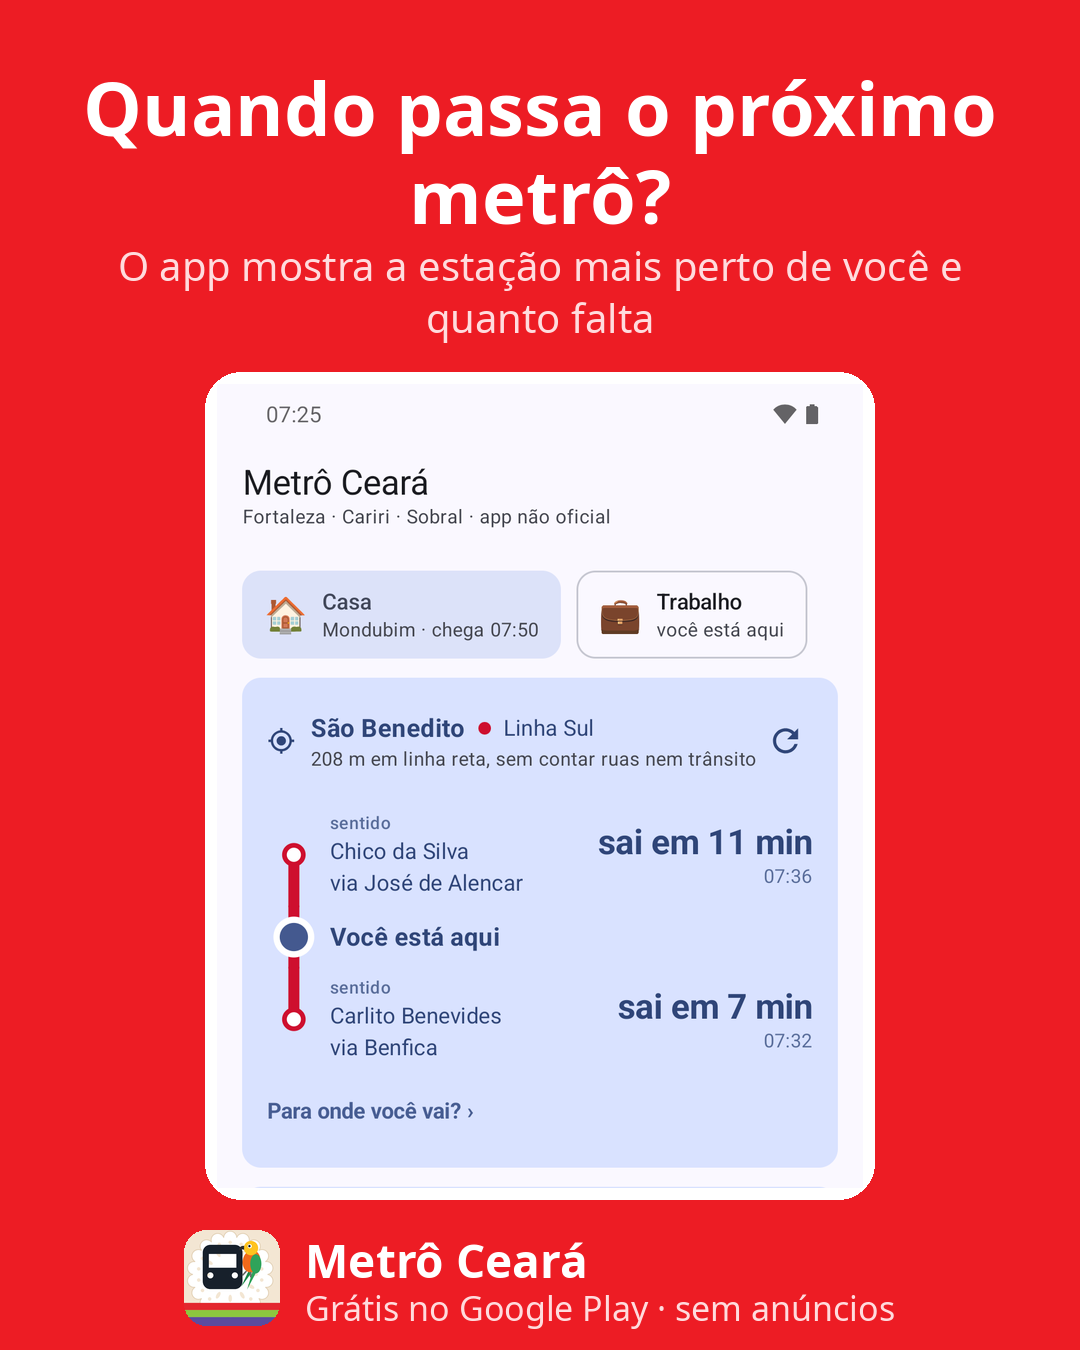
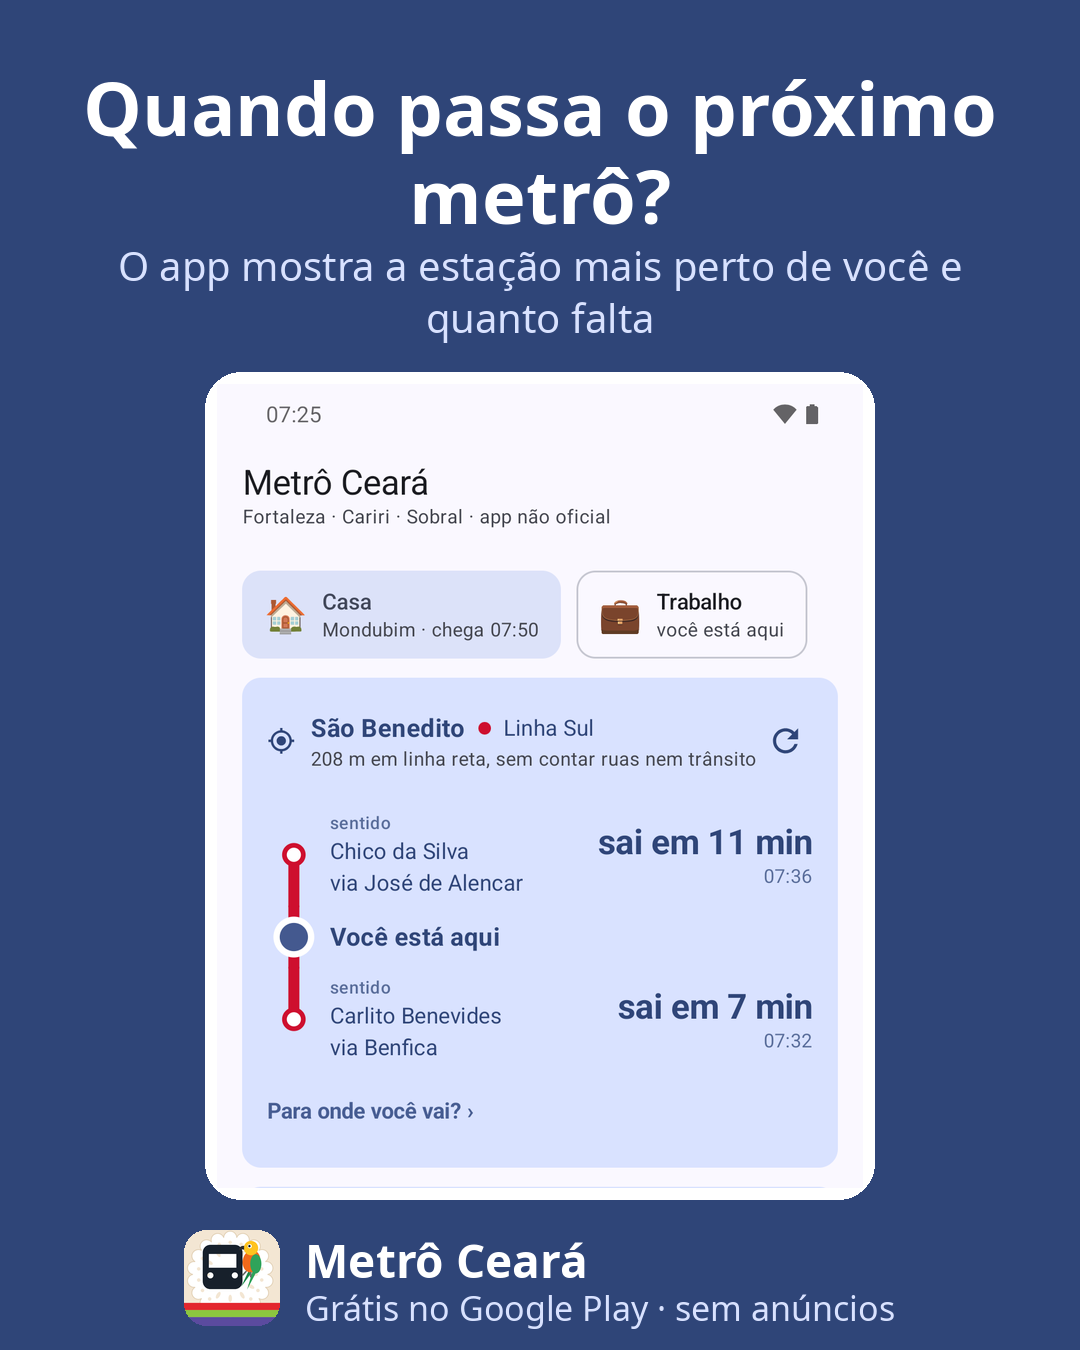
Kit da página do bairro: azul nos posts do app, vermelho nos avisos

diff --git a/tools/video/kit_pagina_bairro.py b/tools/video/kit_pagina_bairro.py
@@ -18,9 +18,11 @@ os.makedirs(OUT, exist_ok=True)
 CAPS = os.path.join(ROOT, "fastlane/metadata/android/pt-BR/images/phoneScreenshots")
 
 W, H = 1080, 1350
-RED = (237, 28, 36)
 WHITE = (255, 255, 255)
-PINK = (255, 220, 222)
+# Cor pela função do post: azul para mostrar o que o app faz, vermelho (a cor da
+# marca, Theme.kt) para avisos (domingo, operação especial). Escolha de 14/11/2026.
+AZUL = dict(bg=(47, 69, 120), sub=(217, 226, 255))  # azul dos títulos do app nas capturas
+AVISO = dict(bg=(237, 28, 36), sub=(255, 220, 222))
 BOLD = "/usr/share/fonts/truetype/noto/NotoSans-Bold.ttf"
 REG = "/usr/share/fonts/truetype/noto/NotoSans-Regular.ttf"
 ICON = os.path.join(ROOT, "docs", "img", "icon.png")
@@ -51,8 +53,8 @@ def rounded(im, r):
     return out
 
 
-def card(name, title, sub, shot, crop_frac=(0.0, 1.0)):
-    im = Image.new("RGB", (W, H), RED)
+def card(name, title, sub, shot, crop_frac=(0.0, 1.0), tema=AZUL):
+    im = Image.new("RGB", (W, H), tema["bg"])
     d = ImageDraw.Draw(im)
     y = 56
     ft = f(BOLD, 74)
@@ -62,7 +64,7 @@ def card(name, title, sub, shot, crop_frac=(0.0, 1.0)):
     fs = f(REG, 40)
     y += 6
     for line in wrap(d, sub, fs, W - 140):
-        d.text(((W - d.textlength(line, font=fs)) / 2, y), line, font=fs, fill=PINK)
+        d.text(((W - d.textlength(line, font=fs)) / 2, y), line, font=fs, fill=tema["sub"])
         y += 52
     y += 30
     # Captura: recorta a faixa pedida e encaixa até o rodapé.
@@ -94,7 +96,7 @@ def card(name, title, sub, shot, crop_frac=(0.0, 1.0)):
     x0 = (W - (96 + 24 + tw)) / 2
     im.paste(ic, (int(x0), fy), ic)
     d.text((x0 + 120, fy - 2), t1, font=fn, fill=WHITE)
-    d.text((x0 + 120, fy + 54), t2, font=fc, fill=PINK)
+    d.text((x0 + 120, fy + 54), t2, font=fc, fill=tema["sub"])
     path = os.path.join(OUT, name)
     im.save(path, optimize=True)
     print(path)
@@ -105,7 +107,7 @@ card("post1-apresentacao.png", "Quando passa o próximo metrô?",
      os.path.join(CAPS, "1.png"), (0.0, 0.70))
 card("post2-domingo.png", "Domingo não tem metrô",
      "O app avisa e diz a hora que volta na segunda",
-     os.path.join(SCR, "domingo-1.100.png"), (0.0, 0.56))
+     os.path.join(SCR, "domingo-1.100.png"), (0.0, 0.56), tema=AVISO)
 card("post3-hora-de-descer.png", "Cochila no metrô?",
      "O celular avisa antes da sua estação, até com a tela desligada",
      os.path.join(CAPS, "3.png"), ((0.0, 0.16), (0.44, 0.80)))

diff --git a/README.md b/README.md
@@ -57,7 +57,8 @@ ilustrações marcadas como tal.
 Para páginas e grupos do Facebook há o
 [`divulgacao/kit-pagina-bairro/`](divulgacao/kit-pagina-bairro/): quatro posts
 para publicar um a cada 1 ou 2 semanas (apresentação, "domingo não tem metrô",
-hora de descer e widget), em imagens 1080×1350, mais um corte de 18 s do vídeo
+hora de descer e widget), em imagens 1080×1350 — azul nas que mostram o que o
+app faz e o vermelho da marca nas de aviso (domingo, operação especial) —, mais um corte de 18 s do vídeo
 com o aviso de descida e os textos prontos em `textos.txt`, inclusive um
 modelo para o dia em que o Metrofor anunciar operação especial. Os links da
 Play Store levam `utm_source=pagina-bairro`, para separar no Play Console as
